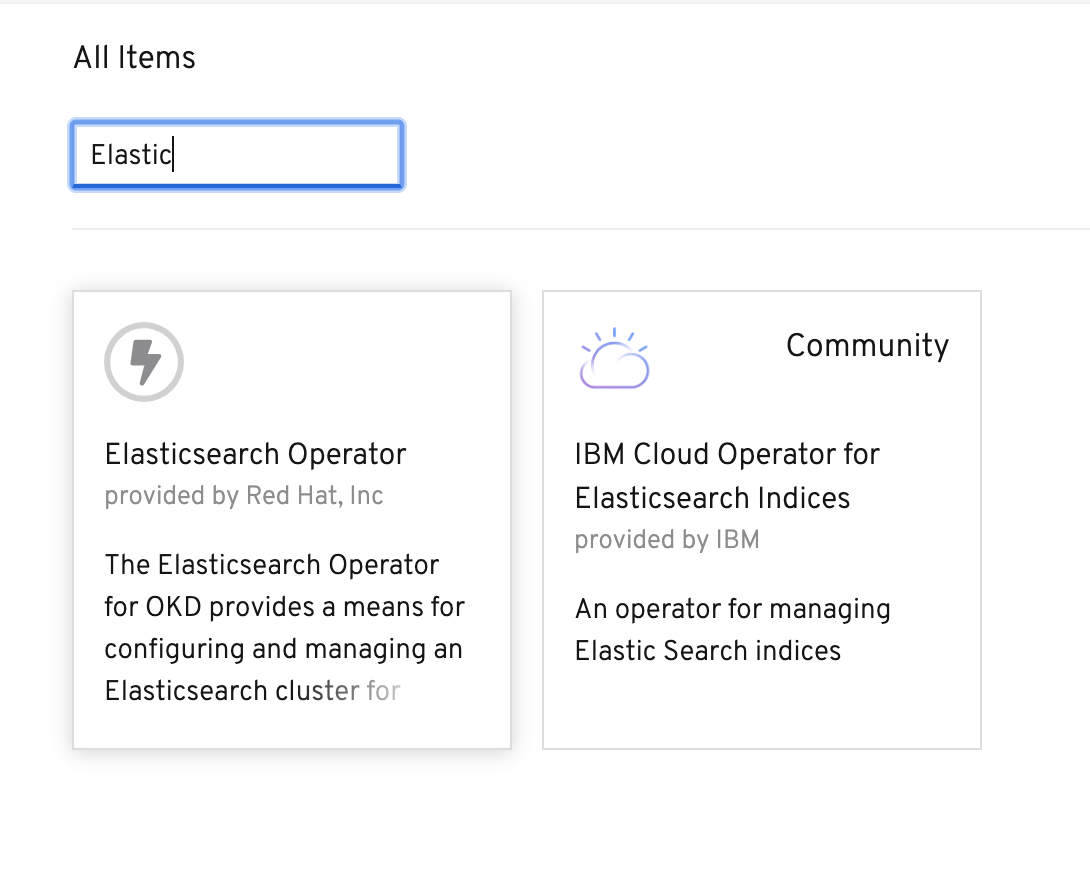
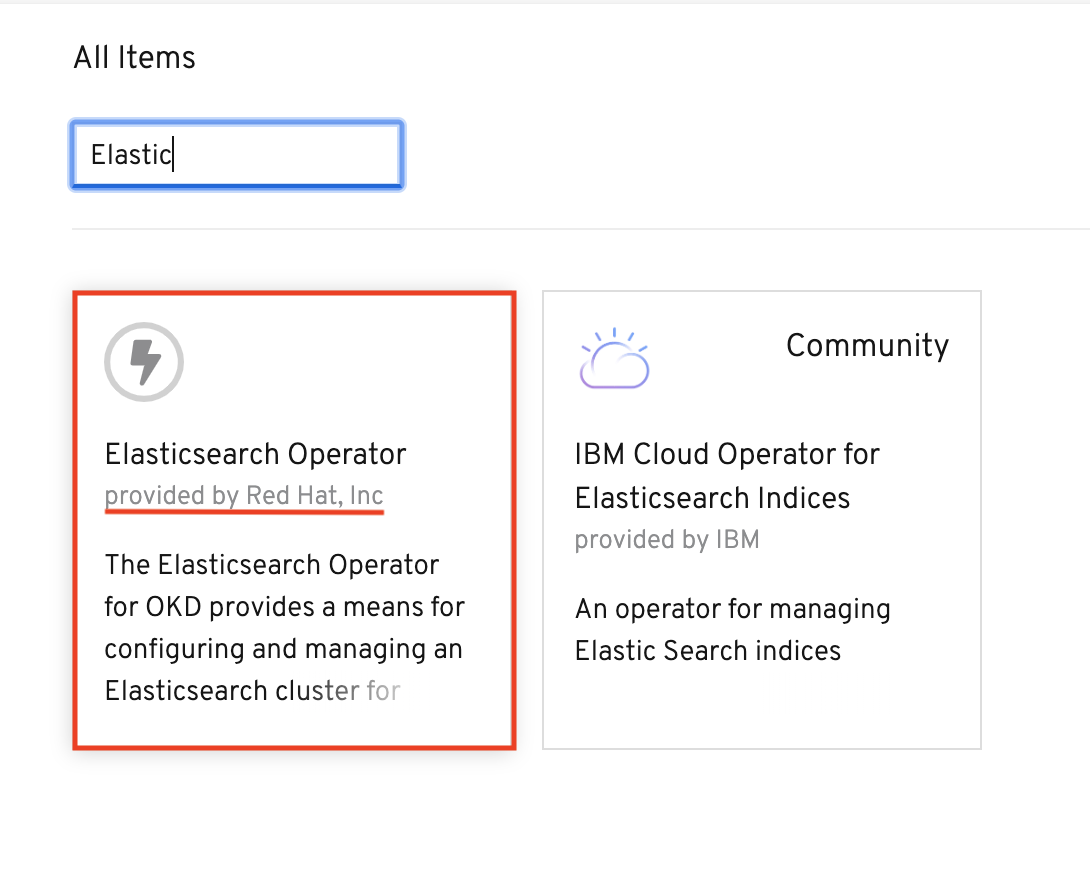
Init Version

Changed region(s): [[0.0624, 0.3075, 0.4991, 0.861]]

diff --git a/labs/00-install-service-mesh.md b/labs/00-install-service-mesh.md
@@ -14,51 +14,119 @@ Installing the OpenShift Service Mesh involves :
 * Creating and managing a ServiceMeshControlPlane resource to deploy the Service Mesh control plane
 * Creating a ServiceMeshMemberRoll resource to specify the namespaces associated with the Service Mesh.
 
+
 ## Install Operators
+```
+Remark: Instructor already install all operators for you.
+
+```
+
 Login to OpenShift Web Console using Adimin user
 * In the OCP Web Console, navigate to: Catalog -> Operator Hub
 * In the OperatorHub catalog of your OCP Web Console, type Elasticsearch into the filter box to locate the Elasticsearch Operator (by Red Hat)
-     ![ElasticSearch Operator|small](../images/elastic-operator.png)
+     ![ElasticSearch Operator](../images/elastic-operator.png)
 * Click the Elasticsearch Operator to display information about the Operator and Click Install
-     ![Install ElasticSearch Operator|small](../images/install-elastic-operator.png)
+     ![Install ElasticSearch Operator](../images/install-elastic-operator.png)
 * On the Create Operator Subscription page. Select All namespaces on the cluster (default). This installs the Operator in the default openshift-operators project and makes the Operator available to all projects in the cluster and Click Subscribe
-     ![Subscribe ElasticSearch Operator|small](../images/subscribe-elastic-operator.png) 
+     ![Subscribe ElasticSearch Operator](../images/subscribe-elastic-operator.png) 
 * The Subscription Overview page displays the Elasticsearch Operator’s installation progress. Following screen show Elasticsearch oprator installed.
-     ![ElasticSearch Operator Inatalled|small](../images/complete-elastic-operator.png)
-* Repeat all steps for Jaeger, Kiali and OpenShift Service Mesh
+     ![ElasticSearch Operator Inatalled](../images/complete-elastic-operator.png)
+* Repeat all steps for Jaeger, Kiali and OpenShift Service Mesh. **Select Operator that provided by Red Hat not Community version.**
 * Following screen show all 4 operators are installed.
      ![Operators Installed](../images/installed-operators.png)
+
+## Setup
+There are two microservices in this lab that you will deploy to OpenShift. In a later lab of this course, you will manage the interactions between these microservices using Red Hat OpenShift Service Mesh.
+
+Here is the application architecture of the microservices:
+
+image here!
+
+Setup environment variables
+```
+export USERID=<your user ID>
+export PROJECT=$USERID
+
+```
+
+Login to OpenShift with oc command by
+```
+oc login --username=$USERID --server=<URL to OpenShift>
+
+```
+
+Create project (namespace) for frontend and backend application
+```
+oc new-project $USERID
+
+```
+
+Create Project (namespace) by Web Console, select new project from top-left menu
+[](../images/create-user-project.png)
+
+Clone project to your working directory
+```
+git clone <My URL>
+
+```
+
 ## Service Mesh Control Plane
 Now that the Service Mesh Operator has been installed, you can now install a Service Mesh control plane.
 The previously installed Service Mesh operator watches for a ServiceMeshControlPlane resource in all namespaces. Based on the configurations defined in that ServiceMeshControlPlane, the operator creates the Service Mesh control plane.
 
-In this section of the lab, you define a ServiceMeshControlPlane and apply it to the istio-system namespace.
+In this section of the lab, you define a ServiceMeshControlPlane and apply it to your **$USERID-istio-system namespace**.
 
-* Create a namespace called istio-system where the Service Mesh control plane will be installed.
+* Create a project (namespace) called **$USERID-istio-system** where the Service Mesh control plane will be installed by using oc command or Web Console
+  
+  ```
+  # Replace USER1 with your user ID
+  oc new-project $USERID-istio-system --display-name="User1 Istio System"
+  ```
+
+  By Web Console. **Replace user1 with your User ID.
+  ![Create Project](../images/create-istio-system-project.png)
+  
 * Install Control Plane using the custom resource file [basic install](../install/basic-install.yml)
     Mutual TLS is disbled by setting mtls to false.
     Kiali user is single sign-on with OpenShift
 * Create the service mesh control plane in the istio-system project
-  
+  By oc command
   ```
-  oc apply -f install/istio-installation.yml -n istio-system
+  oc apply -f install/istio-installation.yml -n $USERID-istio-system
   ```
+  By Web Console, navigate to: Operators -> Installed Operators then select Red Hat OpenShift Service Mesh
+  ![](../images/select-openshift-service-mesh.png)
+
+  Select Create Instance under Istio Service Mesh Control Plane
+  ![](../images/create-control-plane.png)
+
+  Copy and paste custom resource file [basic install](../install/basic-install.yml) to YAML section then click Create
+  ![](../images/create-control-plane-yaml.png)
+
+
 * Watch the process of deployment
   
   ```
-  watch oc get pods -n istio-system
+  watch oc get pods -n $USERID-istio-system
   ```
   
   The entire installation process can take approximately 10-15 minutes. Confirm that following pods are up and running
   
-  ![watch istio pods|small](../images/watch-oc-get-pods-istio-system.png)
+  ![watch istio pods](../images/watch-oc-get-pods-istio-system.png)
+
+  Watch pods by Web Console, naviage to: Workloads -> Pods
+
+  ![watch istio pods web console](../images/watch-pods-istio-system.png)
 
 ## Service Mesh Member Roll
 The Service Mesh operator has installed a control plane configured for multitenancy. This installation reduces the scope of the control plane to only those projects/namespaces listed in a ServiceMeshMemberRoll.
 
-In this section of the lab, you create a ServiceMeshMemberRoll resource with the project/namespaces you wish to be part of the mesh. This ServiceMeshMemberRoll is required to be named default and exist in the same namespace where the ServiceMeshControlPlane resource resides (ie: istio-system).
+In this section of the lab, you create a ServiceMeshMemberRoll resource with the project/namespaces you wish to be part of the mesh. This ServiceMeshMemberRoll is required to be named default and exist in the same namespace where the ServiceMeshControlPlane resource resides (ie: $USERID-istio-system).
 
-Sample Service Mesh Member Roll [Member Roll](../install/memberroll.yml) for project name "user1" and "user2"
+Sample Service Mesh Member Roll [Member Roll](../install/memberroll.yml) for project name "user1"
+
+**Remark: You need to change member to your User ID (ie: $USERID)**
+
 ```
 apiVersion: maistra.io/v1
 kind: ServiceMeshMemberRoll
@@ -67,12 +135,21 @@ metadata:
 spec:
   members:
   - user1
-  - user2
 
 ```
 
-Create member roll
+Create member roll by oc command
 
 ```
-oc apply -f install/memberroll.yml -n istio-system
+oc apply -f install/memberroll.yml -n $USERID-istio-system
 ```
+
+By Web Console, navigate to: Operators -> Installed Operators then select Red Hat OpenShift Service Mesh and Select Create Instance under Istio Service Member Roll
+Change member to your User ID (:ie user1) then select Create
+
+![](../images/create-member-roll-yaml.png)
+
+Verify that member roll is created
+
+![](../images/create-member-roll-done.png)
+
